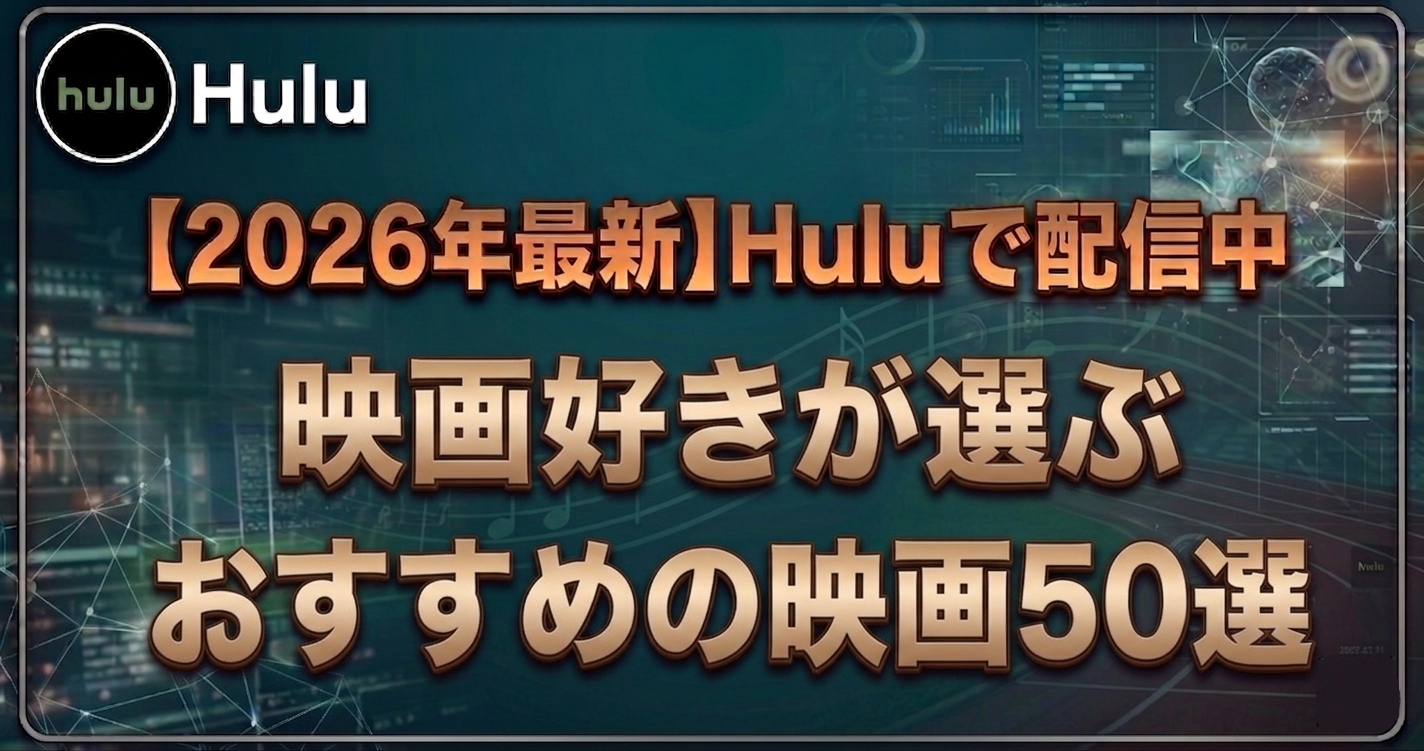
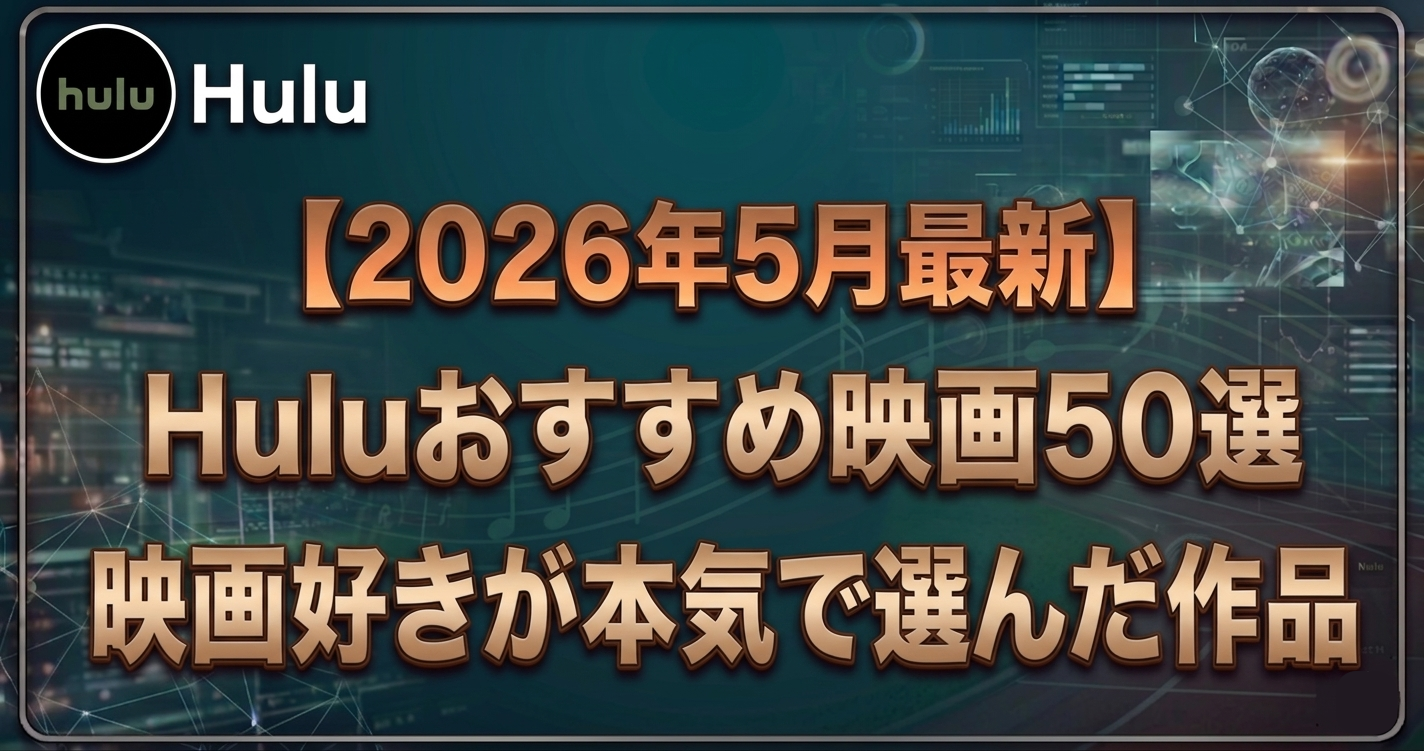
SEO: Update title/meta/H1 with target KW, replace thumbnail

diff --git a/public/hulu-recommended-movies-50.html b/public/hulu-recommended-movies-50.html
@@ -5,14 +5,14 @@
     <meta name="google-site-verification" content="PUQeeaUynOCmja3CPK12o0Fpjl-qDcdmL3mmqK91_kA" />
     <meta name="viewport" content="width=device-width, initial-scale=1.0">
     <link rel="canonical" href="https://movie-watchers.com/hulu-recommended-movies-50">
-    <meta name="description" content="Huluで配信中のおすすめ映画50本を厳選。洋画20選・邦画20選・アニメ映画10選を映画好きライターが本音で紹介します。">
-    <title>【2026年最新】Huluで配信中｜映画好きが選ぶおすすめの映画50選 | Movie Watcher</title>
-    <meta property="og:title" content="【2026年最新】Huluで配信中｜映画好きが選ぶおすすめの映画50選">
-    <meta property="og:description" content="Huluで配信中のおすすめ映画50本を厳選。洋画・邦画・アニメ映画を映画好きライターが本音で紹介。">
+    <meta name="description" content="Huluで今すぐ観られるおすすめ映画を50本厳選。洋画20選・邦画20選・アニメ10選をジャンル別に紹介。映画好きライターが本音で選んだ、外れない作品だけを集めました。">
+    <title>【2026年5月最新】Huluおすすめ映画50選｜映画好きが本気で選んだ作品 | Movie Watcher</title>
+    <meta property="og:title" content="【2026年5月最新】Huluおすすめ映画50選｜映画好きが本気で選んだ作品">
+    <meta property="og:description" content="Huluで今すぐ観られるおすすめ映画を50本厳選。洋画・邦画・アニメを映画好きライターが本音で紹介。">
     <meta property="og:url" content="https://movie-watchers.com/hulu-recommended-movies-50">
     <meta property="og:type" content="article">
     <meta name="twitter:card" content="summary_large_image">
-    <meta name="twitter:title" content="【2026年最新】Huluで配信中｜映画好きが選ぶおすすめの映画50選">
+    <meta name="twitter:title" content="【2026年5月最新】Huluおすすめ映画50選｜映画好きが本気で選んだ作品">
     <meta property="og:image" content="https://movie-watchers.com/hulu-recommended-movies-50-thumbnail.png">
     <meta name="twitter:image" content="https://movie-watchers.com/hulu-recommended-movies-50-thumbnail.png">
     <link rel="stylesheet" href="style.css">
@@ -22,7 +22,7 @@
     {
       "@context": "https://schema.org",
       "@type": "Article",
-      "headline": "【2026年最新】Huluで配信中｜映画好きが選ぶおすすめの映画50選",
+      "headline": "【2026年5月最新】Huluおすすめ映画50選｜映画好きが本気で選んだ作品",
       "author": {"@type": "Person", "name": "エミ"},
       "publisher": {"@type": "Organization", "name": "Movie Watcher"},
       "datePublished": "2026-05-25",
@@ -53,7 +53,7 @@
             <article class="article-detail">
                 <header class="article-header">
                     <div class="article-category-tag">Hulu</div>
-                    <h1>【2026年最新】Huluで配信中｜映画好きが選ぶおすすめの映画50選</h1>
+                    <h1>【2026年5月最新】Huluおすすめ映画50選｜映画好きが本気で選んだ作品</h1>
                     <div class="article-meta-info">
                         <span class="date">📅 2026年5月25日</span>
                     </div>